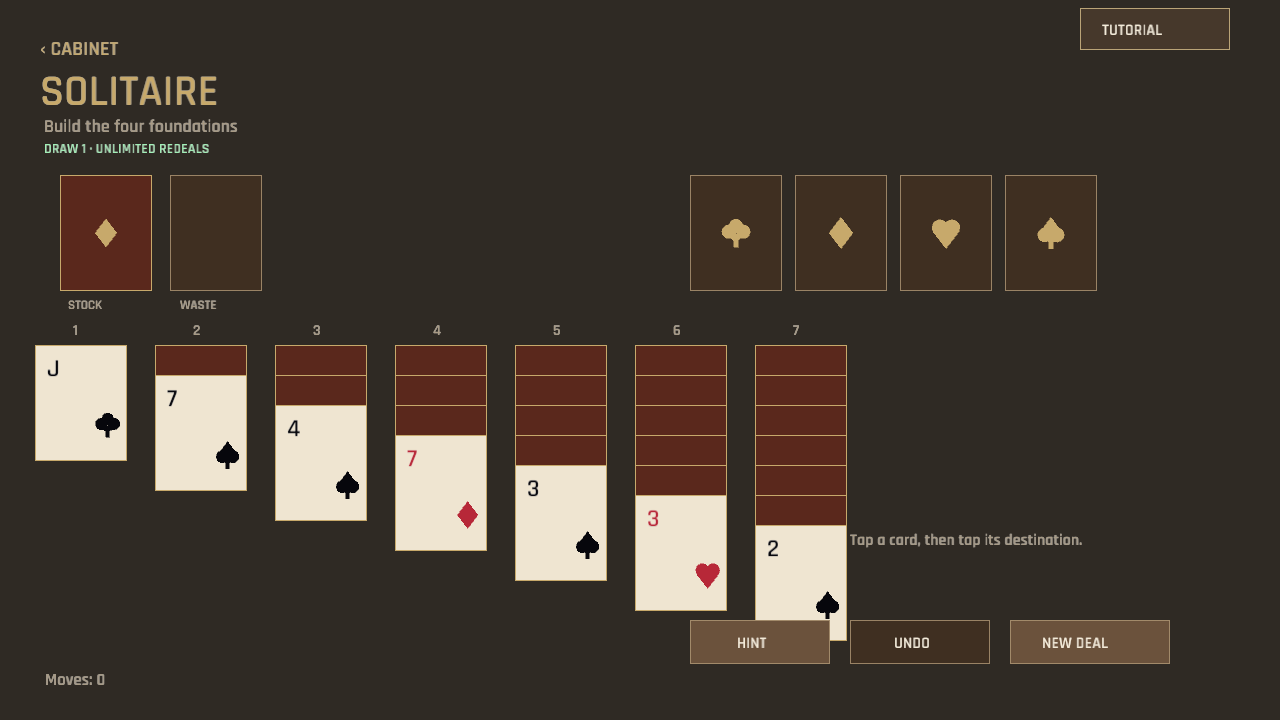
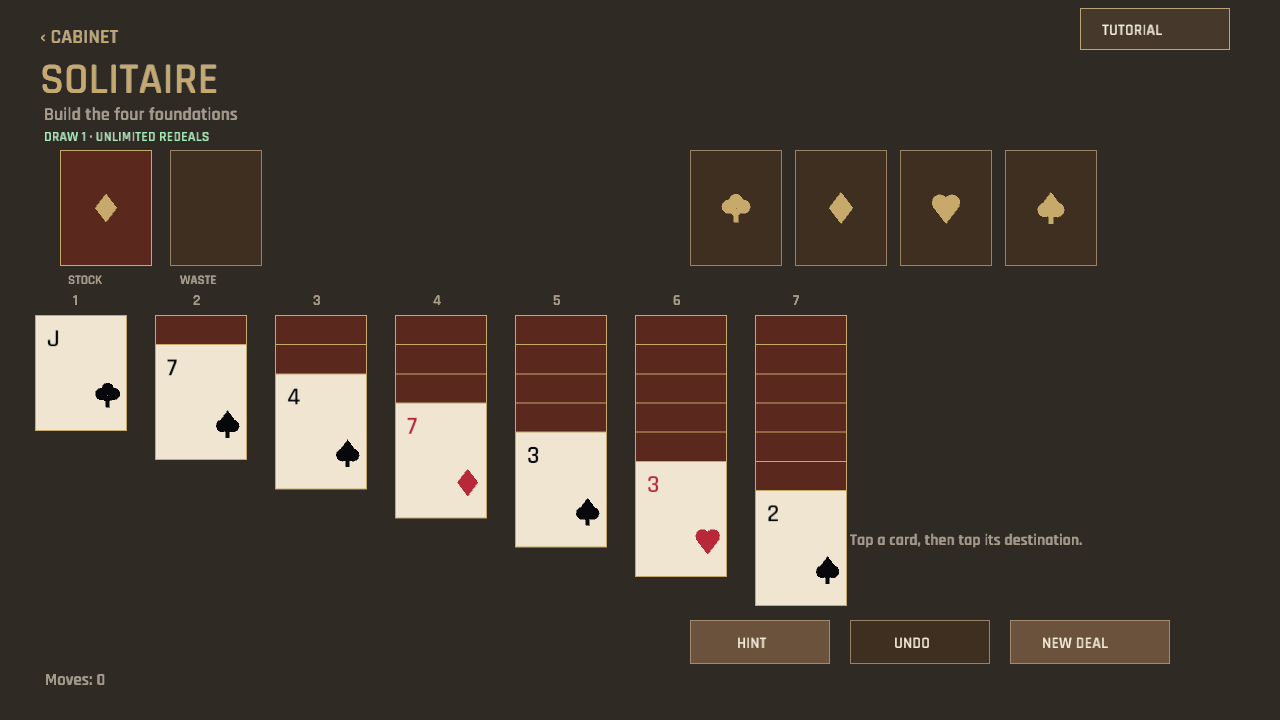
The patient tableau gathers itself beneath the cabinet lights (desktop Solitaire layout)
Long Klondike runs could extend below the 720-pixel desktop board, leaving the lower cards impossible to identify. Raise the Solitaire heading and card rows, then calculate the tableau fan from the deepest current column so a legal long run finishes above the action row. Keep the same spacing in desktop hit-testing so the tighter fan remains touchable, and refresh the desktop verification capture.\n\nVerified with cargo test (369 tests), cargo check, the Solitaire capture, and .\\publish.ps1 through preview deployment.\n\nCo-Authored-By: Codex <noreply@openai.com>

diff --git a/src/solitaire_ui.rs b/src/solitaire_ui.rs
@@ -1,7 +1,19 @@
 //! Touch-first Klondike presentation.
 
-use crate::{cards::Card, solitaire::CardSource, state::AppState, ui::UiAction};
+use crate::{
+    cards::Card,
+    solitaire::{CardSource, Solitaire},
+    state::AppState,
+    ui::UiAction,
+};
 use macroquad::prelude::*;
+
+const TOP_ROW_Y: f32 = 150.;
+const TABLEAU_LABEL_Y: f32 = 305.;
+const TABLEAU_TOP: f32 = 315.;
+const TABLEAU_BOTTOM: f32 = 606.;
+const MAX_TABLEAU_GAP: f32 = 30.;
+const MIN_TABLEAU_GAP: f32 = 12.;
 
 fn text(s: &str, x: f32, y: f32, size: f32, color: Color) {
     crate::ui::draw_text(s, x, y, crate::ui::readable_text_size(size), color);
@@ -13,10 +25,24 @@ fn draw_card(rect: Rect, card: Card, selected: bool, back_style: u8, reduced_mot
     crate::card_render::draw_card(rect, card, selected, back_style, reduced_motion);
 }
 
+fn tableau_gap(game: &Solitaire) -> f32 {
+    let deepest = game
+        .tableau
+        .iter()
+        .map(|column| column.len().saturating_sub(1))
+        .max()
+        .unwrap_or(0);
+    if deepest == 0 {
+        return MAX_TABLEAU_GAP;
+    }
+    ((TABLEAU_BOTTOM - TABLEAU_TOP - 116.) / deepest as f32).clamp(MIN_TABLEAU_GAP, MAX_TABLEAU_GAP)
+}
+
 pub fn draw_solitaire(state: &AppState) {
     let game = &state.solitaire;
-    text("‹ CABINET", 40., 55., 20., crate::theme::BRASS);
-    text("SOLITAIRE", 40., 105., 44., crate::theme::BRASS);
+    let tableau_gap = tableau_gap(game);
+    text("‹ CABINET", 40., 43., 20., crate::theme::BRASS);
+    text("SOLITAIRE", 40., 93., 44., crate::theme::BRASS);
     text(
         if game.status == crate::solitaire::SolitaireStatus::Won {
             "Table cleared"
@@ -24,42 +50,48 @@ pub fn draw_solitaire(state: &AppState) {
             "Build the four foundations"
         },
         44.,
-        132.,
+        120.,
         18.,
         crate::theme::SECONDARY,
     );
     text(
         game.ruleset.label(),
         44.,
-        153.,
+        141.,
         14.,
         Color::new(0.63, 0.95, 0.72, 1.),
     );
-    panel(card_rect(60., 175.), crate::theme::SURFACE);
+    panel(card_rect(60., TOP_ROW_Y), crate::theme::SURFACE);
     if let Some(card) = game.stock.last() {
         draw_card(
-            card_rect(60., 175.),
+            card_rect(60., TOP_ROW_Y),
             *card,
             false,
             state.card_back,
             state.reduced_motion,
         );
     }
-    text("STOCK", 68., 309., 13., crate::theme::SECONDARY);
+    text("STOCK", 68., TOP_ROW_Y + 134., 13., crate::theme::SECONDARY);
     if let Some(card) = game.waste.last() {
         draw_card(
-            card_rect(170., 175.),
+            card_rect(170., TOP_ROW_Y),
             *card,
             game.selected == Some(CardSource::Waste),
             state.card_back,
             state.reduced_motion,
         );
     } else {
-        panel(card_rect(170., 175.), crate::theme::GAME_PANEL);
+        panel(card_rect(170., TOP_ROW_Y), crate::theme::GAME_PANEL);
     }
-    text("WASTE", 180., 309., 13., crate::theme::SECONDARY);
+    text(
+        "WASTE",
+        180.,
+        TOP_ROW_Y + 134.,
+        13.,
+        crate::theme::SECONDARY,
+    );
     for suit in 0..4 {
-        let rect = card_rect(690. + suit as f32 * 105., 175.);
+        let rect = card_rect(690. + suit as f32 * 105., TOP_ROW_Y);
         panel(rect, crate::theme::GAME_PANEL);
         if game.foundations[suit] > 0 {
             let card = Card {
@@ -82,17 +114,17 @@ pub fn draw_solitaire(state: &AppState) {
         text(
             &(column + 1).to_string(),
             x + 38.,
-            335.,
+            TABLEAU_LABEL_Y,
             15.,
             Color::new(0.63, 0.58, 0.72, 1.),
         );
         for (depth, card) in game.tableau[column].iter().enumerate() {
-            let rect = card_rect(x, 345. + depth as f32 * 30.);
+            let rect = card_rect(x, TABLEAU_TOP + depth as f32 * tableau_gap);
             let selected = game.selected == Some(CardSource::Tableau(column, depth));
             draw_card(rect, *card, selected, state.card_back, state.reduced_motion);
         }
         if game.tableau[column].is_empty() {
-            panel(card_rect(x, 345.), crate::theme::GAME_PANEL);
+            panel(card_rect(x, TABLEAU_TOP), crate::theme::GAME_PANEL);
         }
     }
     text(
@@ -135,17 +167,18 @@ fn panel(rect: Rect, fill: Color) {
 }
 
 pub fn solitaire_clicks(state: &AppState, p: Vec2) -> Vec<UiAction> {
+    let tableau_gap = tableau_gap(&state.solitaire);
     if Rect::new(20., 20., 180., 50.).contains(p) {
         return vec![UiAction::Cabinet];
     }
-    if card_rect(60., 175.).contains(p) {
+    if card_rect(60., TOP_ROW_Y).contains(p) {
         return vec![UiAction::SolitaireStock];
     }
-    if card_rect(170., 175.).contains(p) {
+    if card_rect(170., TOP_ROW_Y).contains(p) {
         return vec![UiAction::SolitaireWaste];
     }
     for suit in 0..4 {
-        if card_rect(690. + suit as f32 * 105., 175.).contains(p) {
+        if card_rect(690. + suit as f32 * 105., TOP_ROW_Y).contains(p) {
             return vec![UiAction::SolitaireFoundation(suit)];
         }
     }
@@ -160,11 +193,13 @@ pub fn solitaire_clicks(state: &AppState, p: Vec2) -> Vec<UiAction> {
     }
     for column in 0..7 {
         let x = 35. + column as f32 * 120.;
-        if p.x >= x && p.x <= x + 92. && p.y >= 335. {
+        if p.x >= x && p.x <= x + 92. && p.y >= TABLEAU_LABEL_Y {
             let depth = if state.solitaire.tableau[column].is_empty() {
                 0
+            } else if p.y < TABLEAU_TOP {
+                0
             } else {
-                (((p.y - 345.) / 30.).floor() as usize)
+                (((p.y - TABLEAU_TOP) / tableau_gap).floor() as usize)
                     .min(state.solitaire.tableau[column].len() - 1)
             };
             return vec![UiAction::SolitaireTableau(column, depth)];
